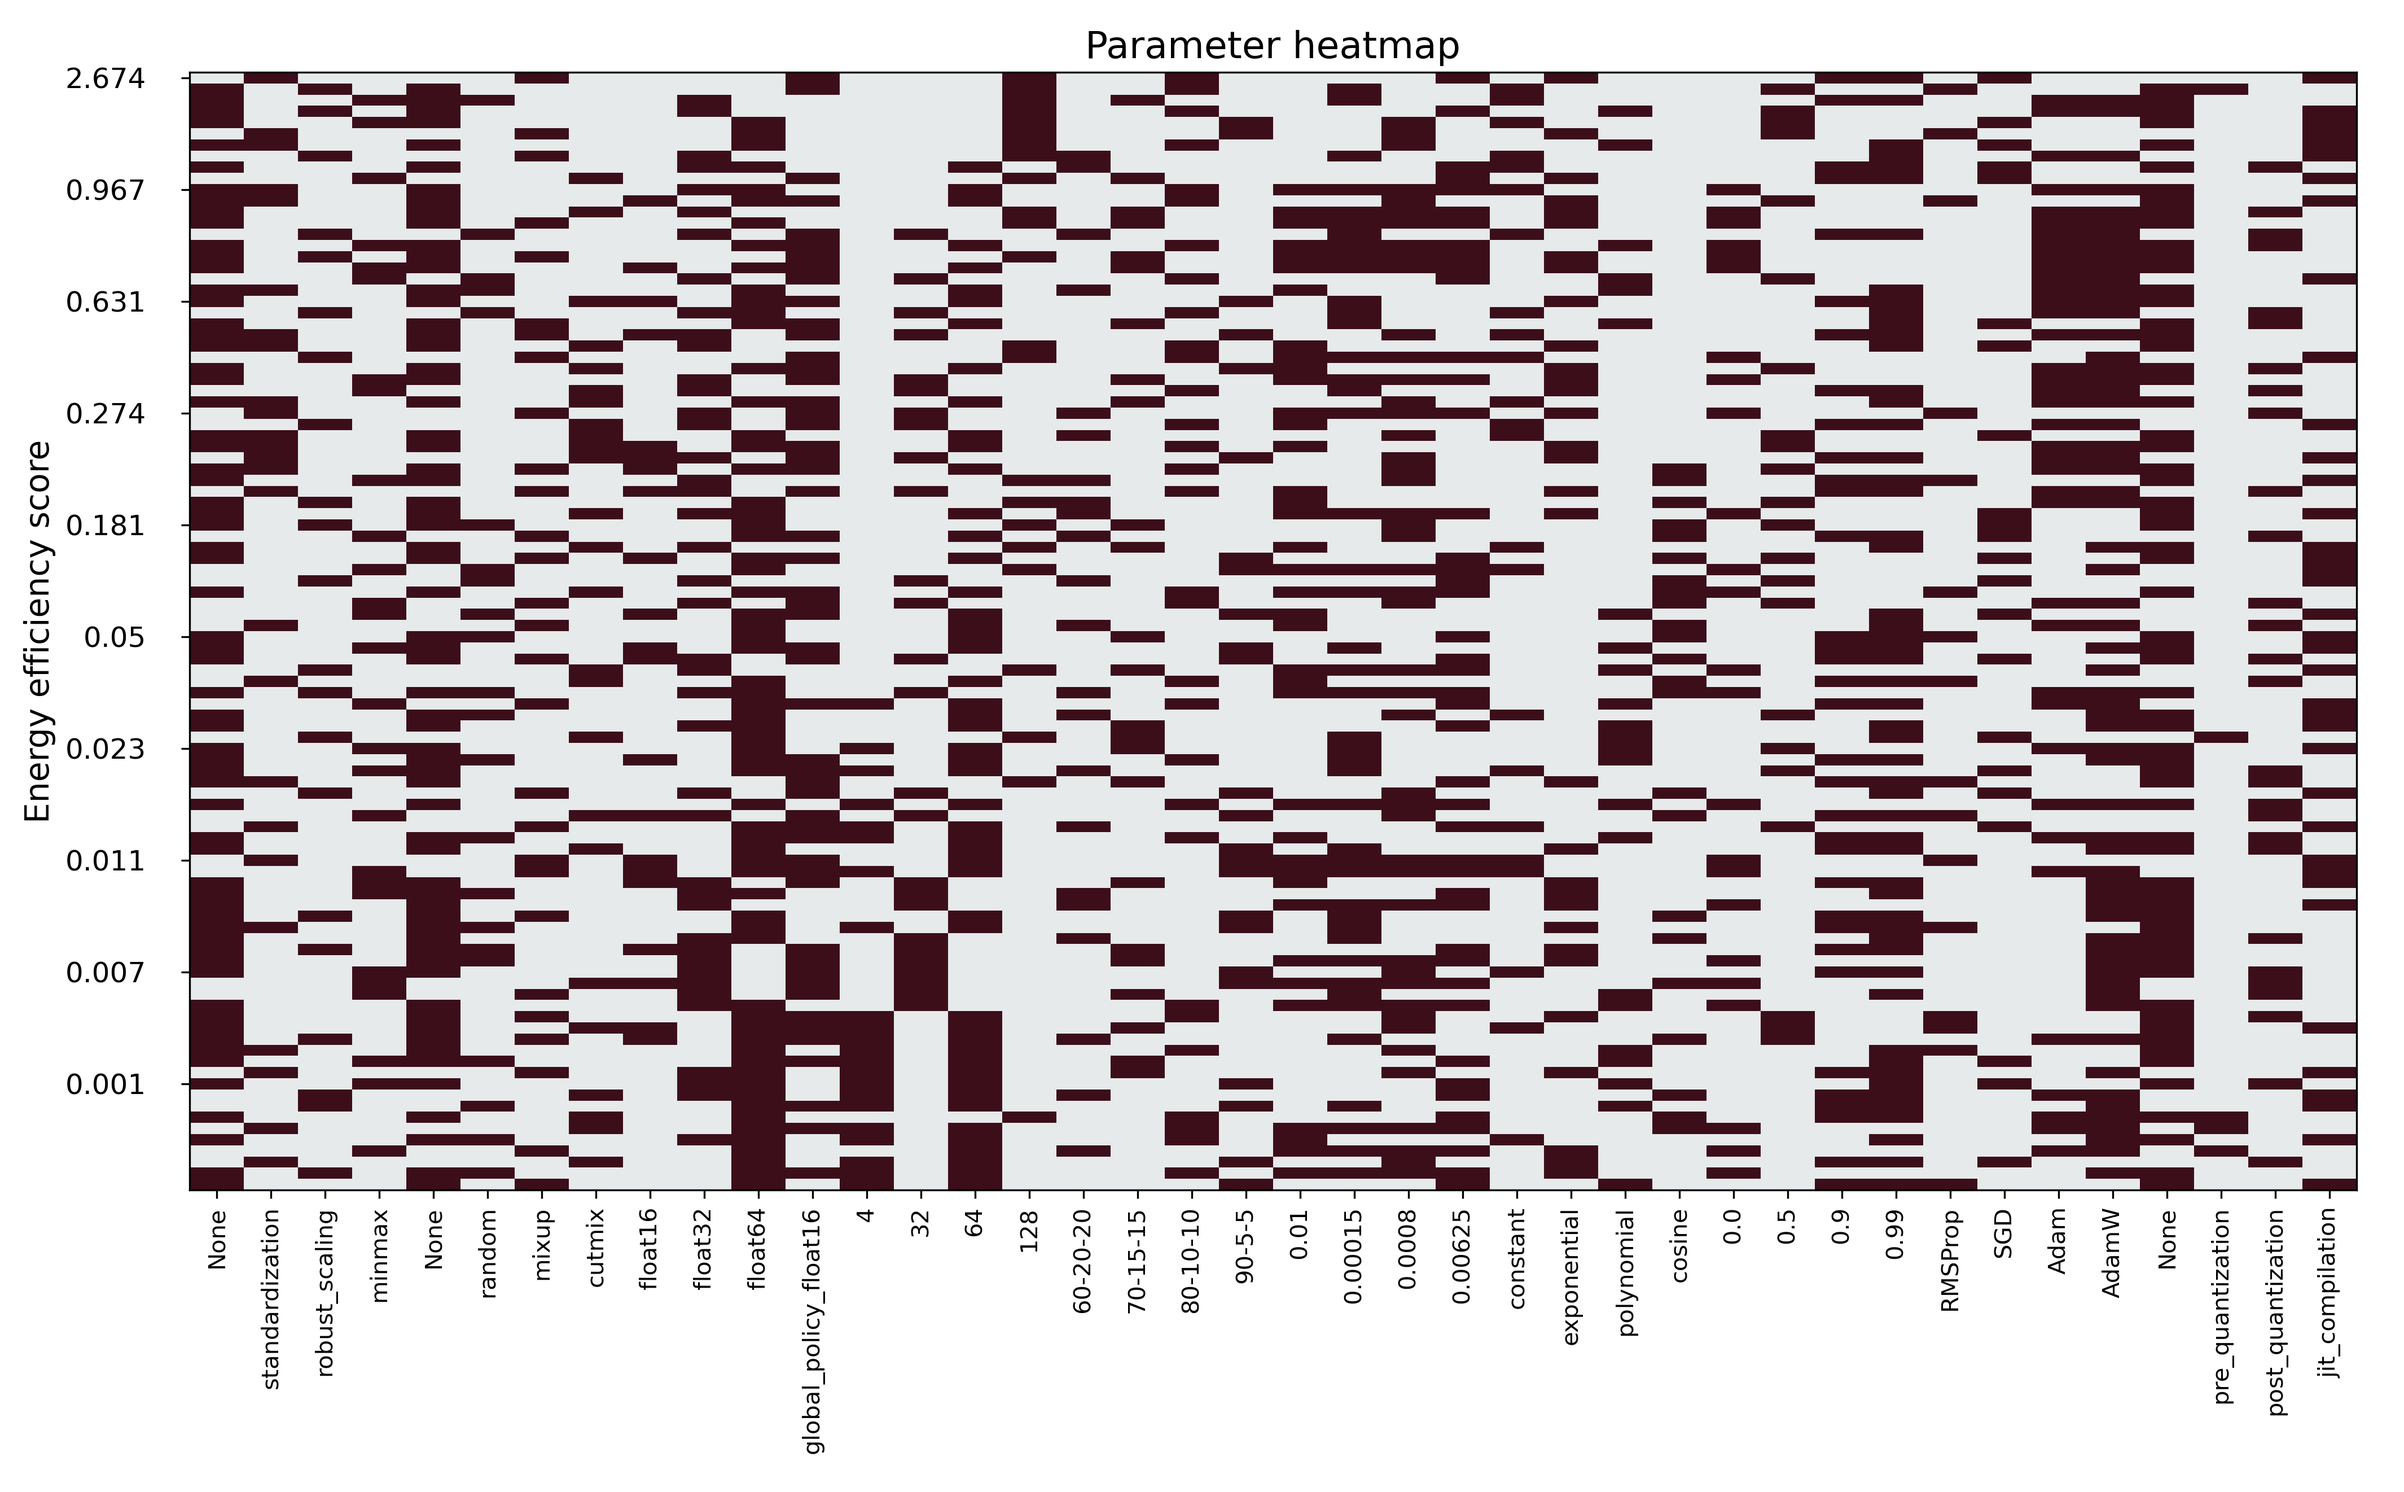
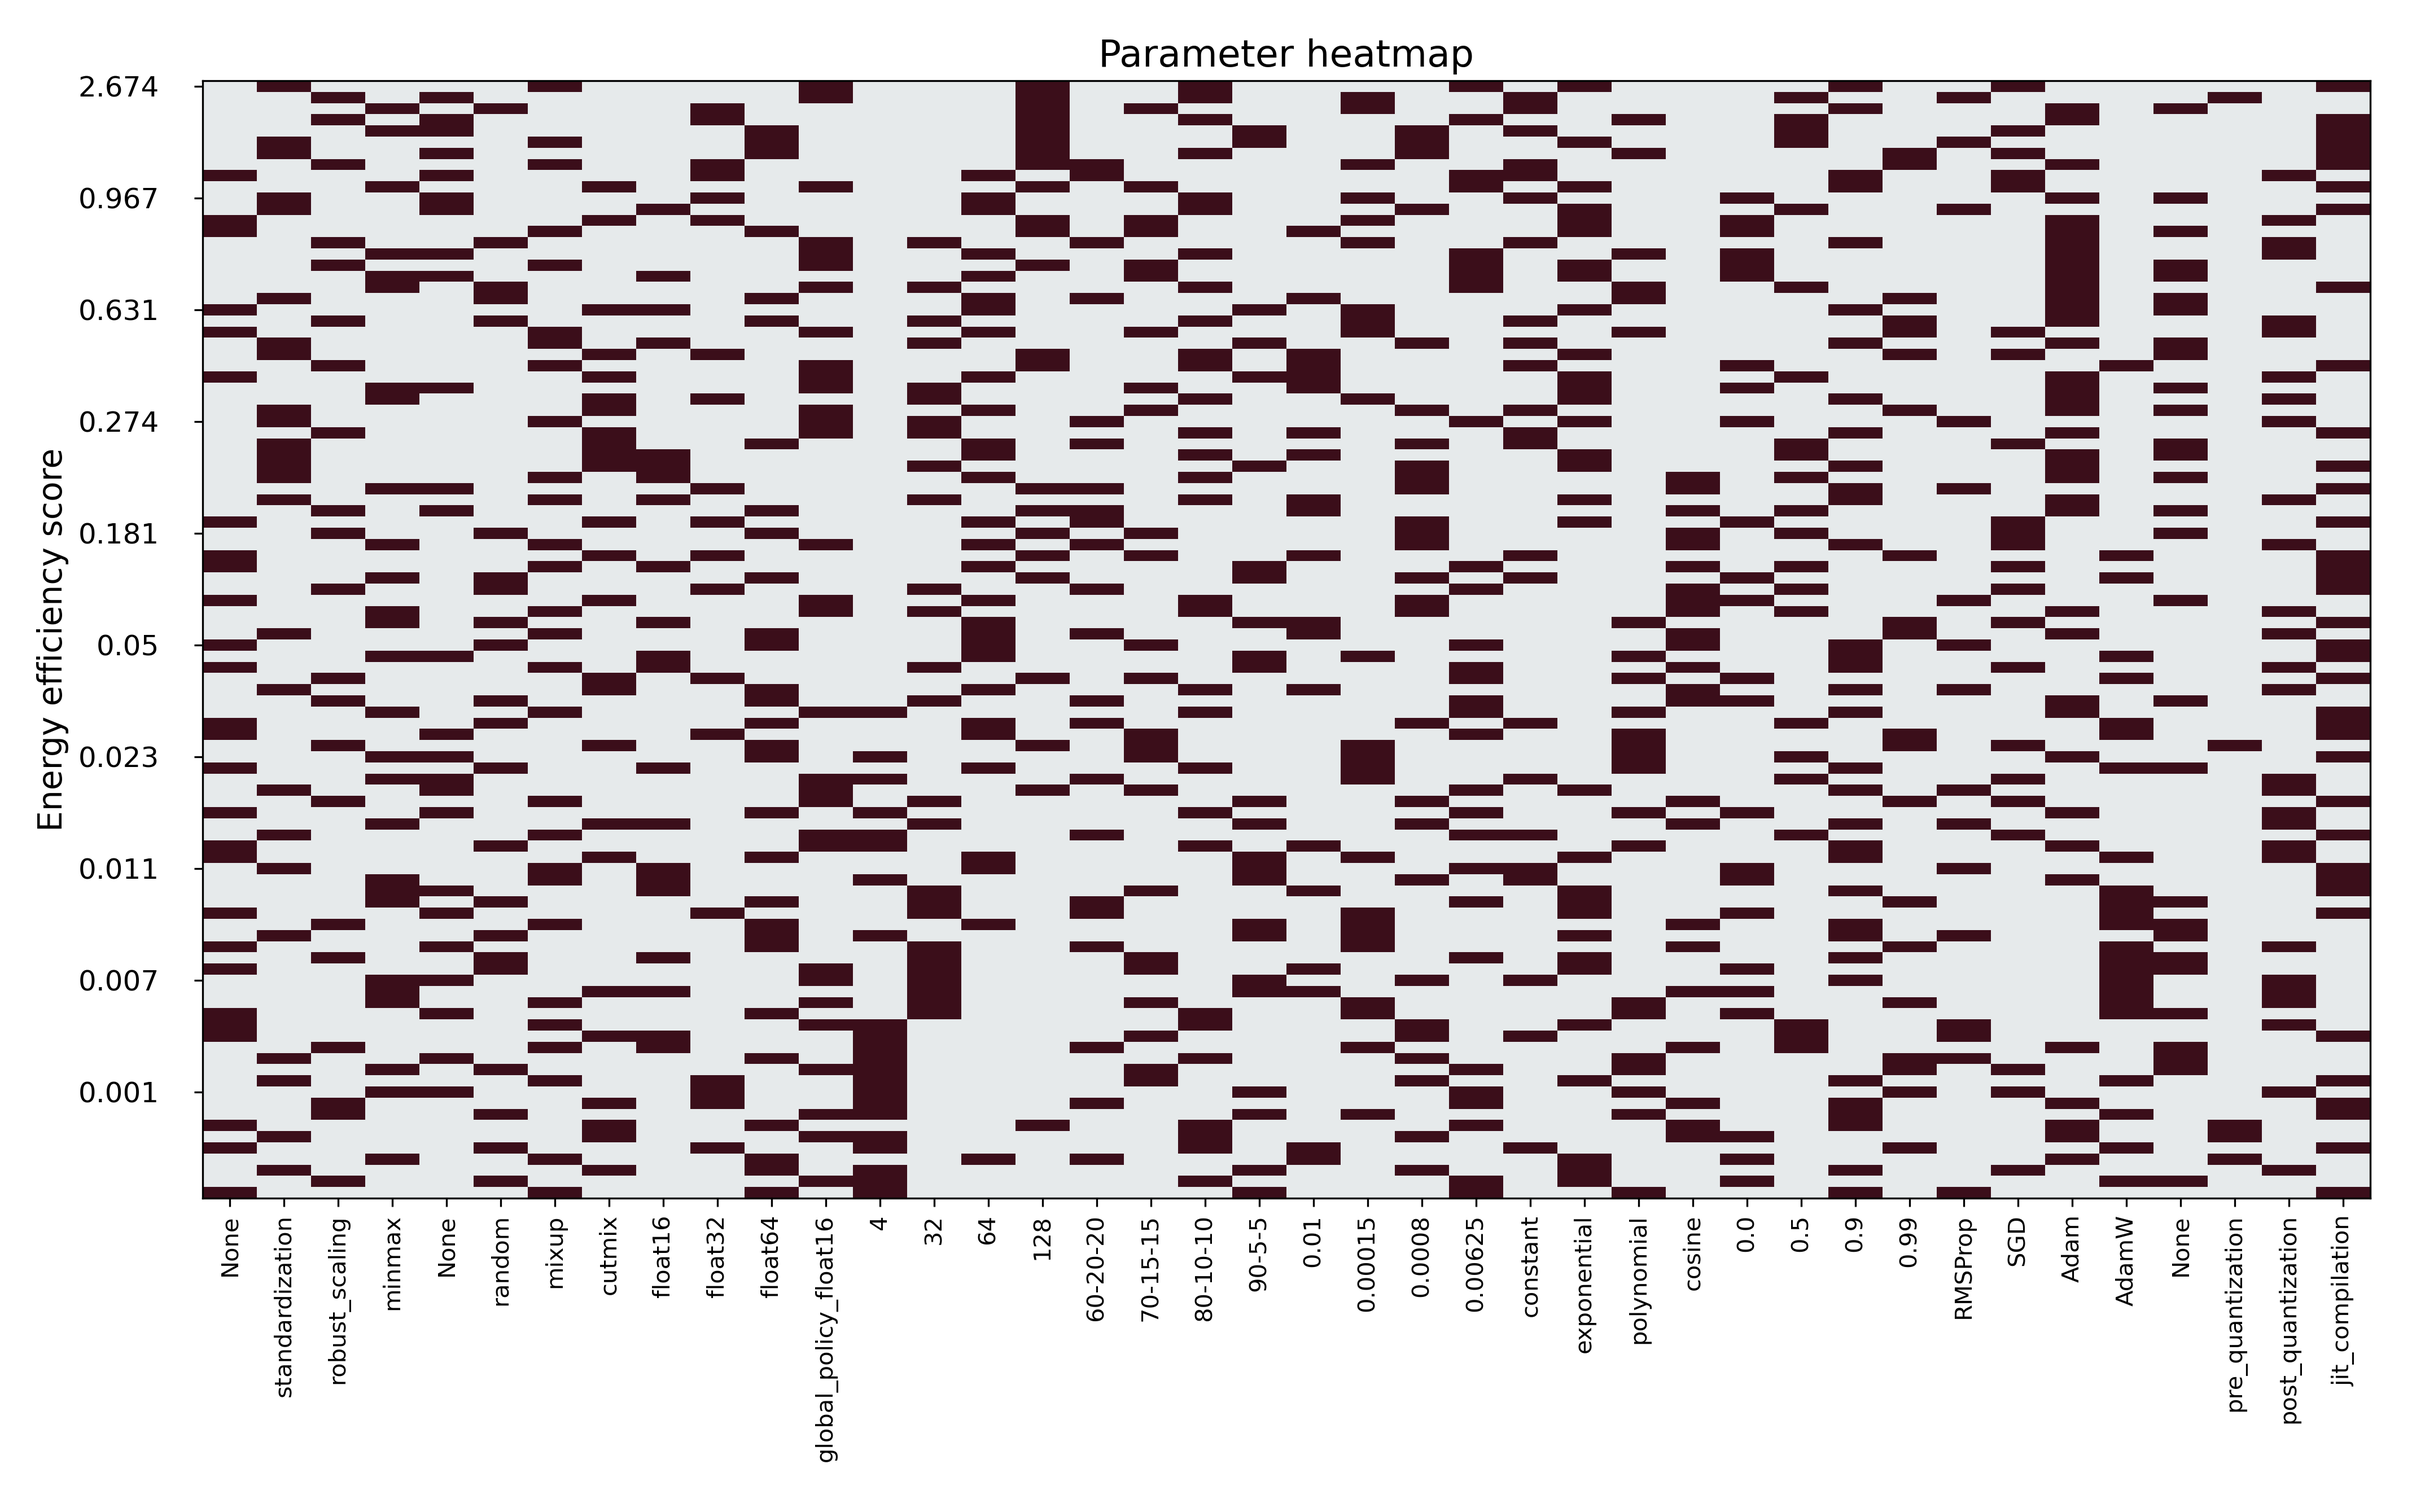
Analysis file changes for report plots

Changed region(s): [[0.0, 0.031, 0.9991, 0.9618]]

diff --git a/utils/analysis.py b/utils/analysis.py
@@ -178,32 +178,43 @@ def get_above_80():
 
     # Get all parameter titles
     para_np_array = np.array(para_np).flatten()
+    # split into groups of 4 elements and nest the elements
+    para_np_array = np.array_split(para_np_array, 10)
+    para_np_array = [list(x) for x in para_np_array]
     df = pd.DataFrame(columns=['run', 'val_accuracy', 'parameters', 'power_draw'])
 
-    # Get all runs and sort them by their best validation accuracy
+    # Get all runs
     all_runs = os.listdir(os.path.join(parent_dir, 'runs'))
-    #all_runs.sort(key=lambda x: read_logs_with_pd(os.path.join(parent_dir, 'runs', x, 'logs.csv'))['val_accuracy'].iloc[-2], reverse=True)
-    #all_runs = [run for run in all_runs if read_logs_with_pd(os.path.join(parent_dir, 'runs', run, 'logs.csv'))['val_accuracy'].iloc[-2]]
+
+    # Drop first and last run
+    all_runs = all_runs[1:-1]
 
     # Store in the dataframe the parameters and power draw for each run
     for run in all_runs:
-        try:
-            run_parameters = get_parameters(run)
-            run_parameters_np = np.array([val for val in run_parameters.values()])
-            run_parameters_np = run_parameters_np[1:-3]
+        run_parameters = get_parameters(run)
+        run_parameters_np = np.array([val for val in run_parameters.values()])
+        run_parameters_np = run_parameters_np[1:-3]
 
-            result = [any(x in s for x in run_parameters_np) for s in para_np_array]
-            power_draw = read_logs_with_pd(os.path.join(parent_dir, 'runs', run, 'logs.csv'))['gpu_power_W']
-            time = read_logs_with_pd(os.path.join(parent_dir, 'runs', run, 'logs.csv'))['time']
-            time = pd.to_datetime(time)
-            time = time.diff().dt.total_seconds()
-            time = time[1:].reset_index(drop=True)
-            power_draw = power_draw[1:].reset_index(drop=True)
-            total_power_draw = (power_draw * time).mean()/3600
-            val_accuracy = read_logs_with_pd(os.path.join(parent_dir, 'runs', run, 'logs.csv'))['val_accuracy'].iloc[-2]
-            df = df.append({'run': run, 'val_accuracy': val_accuracy, 'parameters': result, 'power_draw': total_power_draw}, ignore_index=True)
-        except:
-            print('Error in run: ', run)
+        idx_list = []
+        for i, element in enumerate(run_parameters_np):
+            if element in para_np_array[i]:
+                idx = para_np_array[i].index(element)
+                listee = [0, 0, 0, 0]
+                listee[idx] = 1
+                idx_list.append(listee)
+
+        idx_list = np.array(idx_list).flatten()
+        result = idx_list
+
+        power_draw = read_logs_with_pd(os.path.join(parent_dir, 'runs', run, 'logs.csv'))['gpu_power_W']
+        time = read_logs_with_pd(os.path.join(parent_dir, 'runs', run, 'logs.csv'))['time']
+        time = pd.to_datetime(time)
+        time = time.diff().dt.total_seconds()
+        time = time[1:].reset_index(drop=True)
+        power_draw = power_draw[1:].reset_index(drop=True)
+        total_power_draw = (power_draw * time).mean()/3600
+        val_accuracy = read_logs_with_pd(os.path.join(parent_dir, 'runs', run, 'logs.csv'))['val_accuracy'].iloc[-2]
+        df = df.append({'run': run, 'val_accuracy': val_accuracy, 'parameters': result, 'power_draw': total_power_draw}, ignore_index=True)
 
     # Drop column runs
     df = df.drop(columns=['run'])
@@ -491,19 +502,16 @@ def create_heatmap(df, para_np):
     Creating a heatmap of the selected runs
     """
 
-    # drop the first and the last run
-    df = df.drop([0, len(df)-1])
+    # Calculate the energy efficiency score and sort values
+    #df['energy_efficiency'] = df['val_accuracy'] / df['power_draw']
+    #df = df.sort_values(by=['energy_efficiency'], ascending=False)
 
-    # for each row calculate an energy efficiency score dividing the accuracy by the power draw, store this in a new column
-    df['energy_efficiency'] = df['val_accuracy'] / df['power_draw']
-
-    # sort this dataframe by the energy efficiency score
-    df = df.sort_values(by=['energy_efficiency'], ascending=False)
+    df = df.sort_values(by=['power_draw'], ascending=True)
 
     # Get all parameter titles
     para_np_list = np.array(para_np).flatten().tolist()
 
-    # access only the parameters column in the dataframe
+    # Access only the parameters column in the dataframe
     df_new = df['parameters'].apply(pd.Series)
     df_array = df_new.to_numpy(dtype=float)
     
@@ -523,12 +531,12 @@ def create_heatmap(df, para_np):
 
     # Set y axis label
     ax.set_yticks(np.arange(0, len(df_array), 10))
-    ax.set_yticklabels(df['energy_efficiency'].iloc[::10].round(3), fontsize=12)
-    ax.set_ylabel('Energy efficiency score', fontsize=14)
+    ax.set_yticklabels(df['power_draw'].iloc[::10].round(3), fontsize=12)
+    ax.set_ylabel('Power draw', fontsize=14)
     ax.tick_params(axis='y', which='major', pad=15)
 
     # Store as image
-    plt.savefig('heatmap.png', dpi=300)
+    plt.savefig('heatmap_02.png', dpi=300)
 
     plt.show()
 
@@ -573,10 +581,10 @@ def analysis():
 
 if __name__ == '__main__':
     # create_summary_csv()
-    #create_heatmap(get_above_80(), para_np)
+    create_heatmap(get_above_80(), para_np)
     #plot_triplets(gpu_p_p)
     #_, _, best_run = gpu_per_parameter()
     #print(best_run)
-     #corr()
-    plot_distributions()
+    #corr()
+    #plot_distributions()
     #pass
